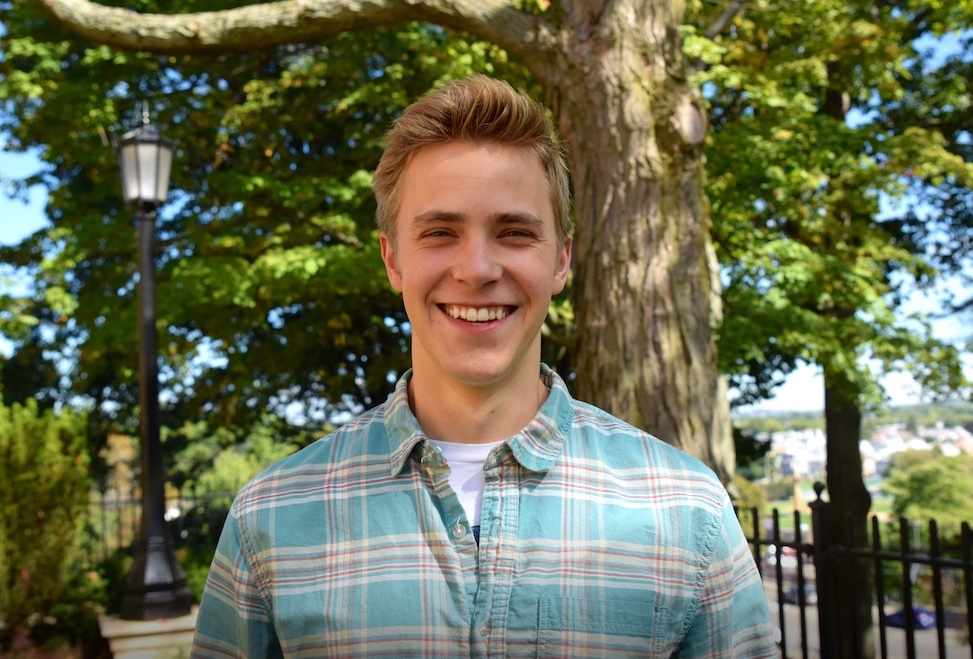
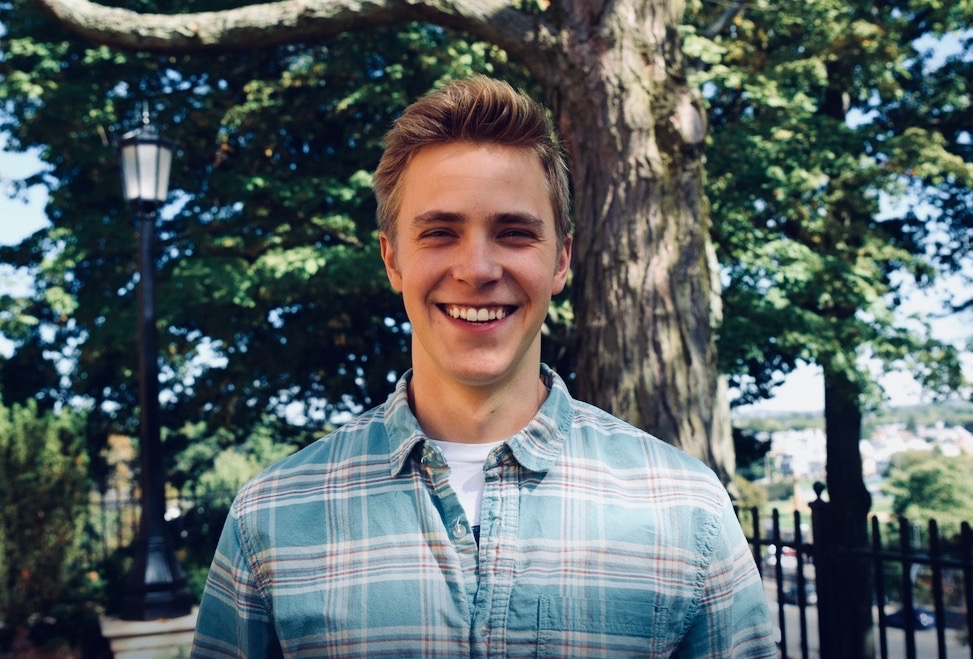
updated header positioning, updated portrait img

diff --git a/styles.css b/styles.css
@@ -65,7 +65,7 @@ h2 {
 
 .bgimg-1 {
   position: relative;
-  opacity: 0.70;
+  opacity: 0.65;
   background-position: center;
   background-repeat: no-repeat;
   background-size: cover;
@@ -77,7 +77,7 @@ h2 {
 .caption {
   position: absolute;
   left: 0;
-  bottom: 12%;
+  bottom: 12.5%;
   width: 100%;
   text-align: center;
   color: #000;
@@ -102,6 +102,10 @@ h2 {
   padding-top: 25px;
 }
 
+.intro-icon {
+  opacity: 0.75;
+}
+
 .contact-buttons-container {
   text-align: center;
   margin-top: 25px;
@@ -110,7 +114,7 @@ h2 {
 .chevron-wrapper {
   position: absolute;
   left: 0;
-  bottom: 5%;
+  bottom: 4.5%;
   width: 100%;
   text-align: center;
 }

diff --git a/index.html b/index.html
@@ -29,7 +29,7 @@
     <div class="container">
       <div class="layout">
         <div class="col col-complementary" role="complementary">
-          <img class="icon-image" src="/images/smile.jpg">
+          <img class="icon-image intro-icon" src="/images/smile.jpg">
         </div>
         <div class="col col-main" role="main">
           <h2> Hi, I'm a student and a software engineer.</h2>
